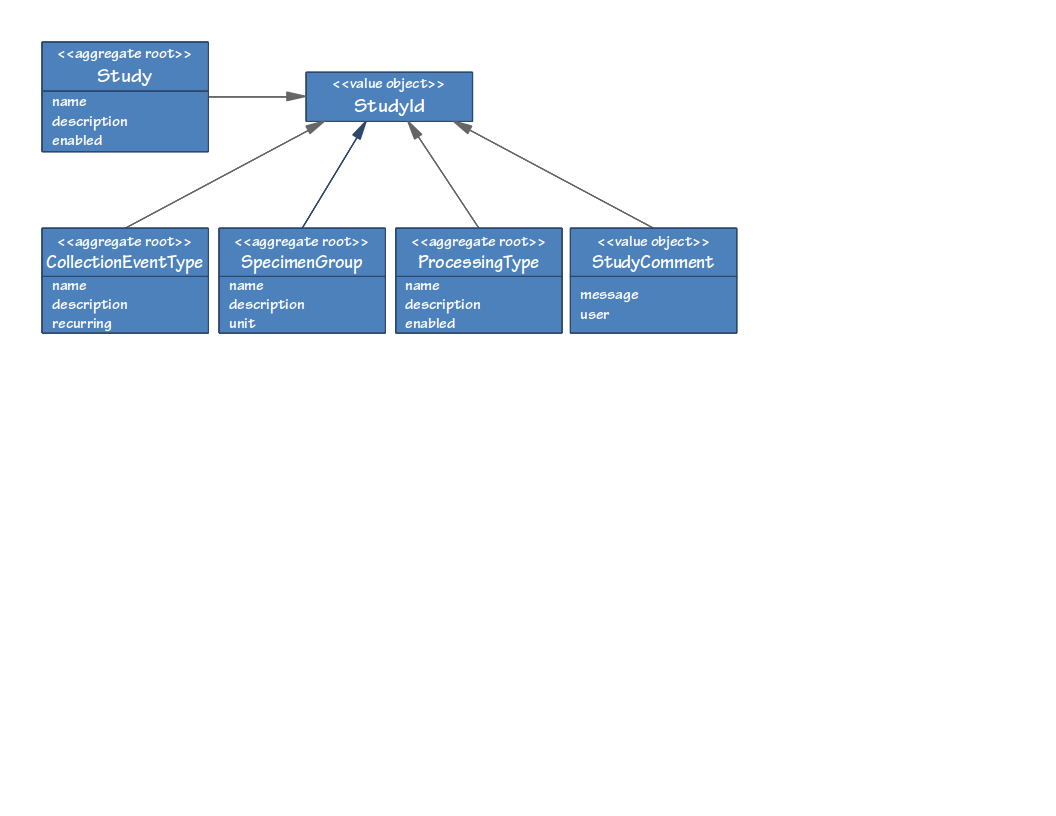
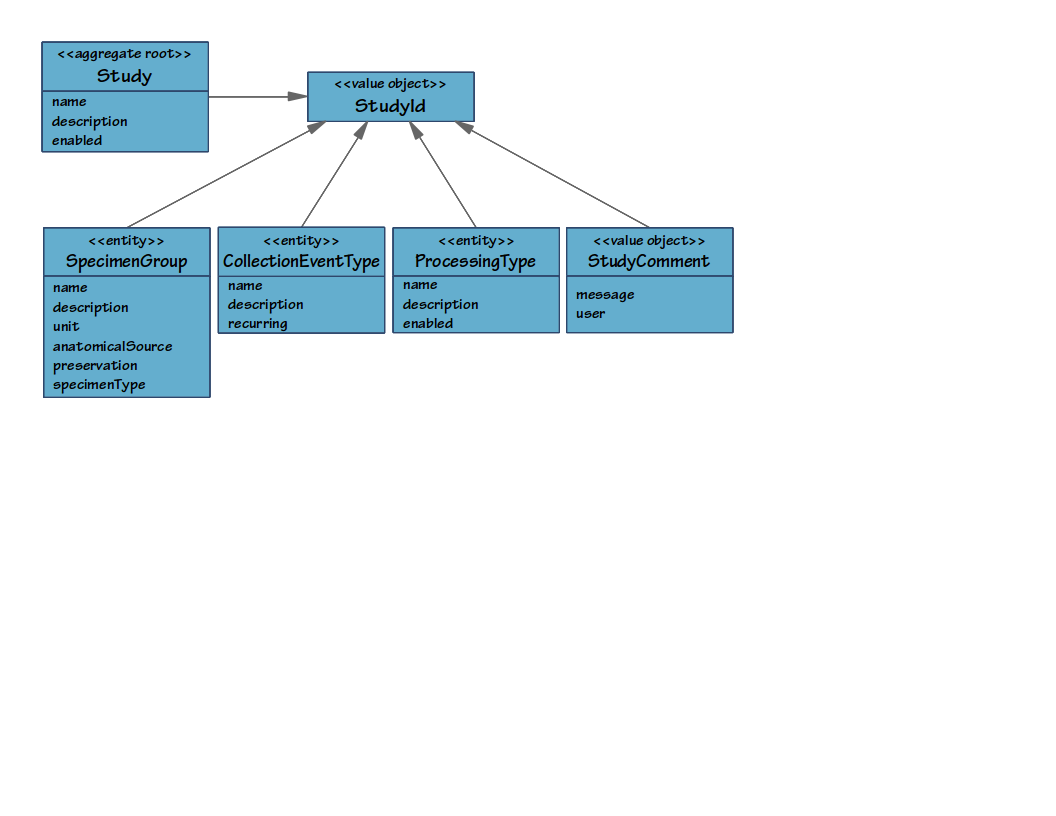
more content on study management chapter

Changed region(s): [[0.0312, 0.2451, 0.7188, 0.4902], [0.0312, 0.0306, 0.2188, 0.1838], [0.2812, 0.0919, 0.4688, 0.1838]]

diff --git a/study-management.tex b/study-management.tex
@@ -2,18 +2,16 @@
 
 \section{Study Aggregate}
 
- The Study aggregate defines the valid types of specimens that can be
- collected, how they are to be collected from participants, and how collected
- specimens are processed.
+ The Study aggregate is used to configure a study. It defines the valid types
+ of specimens that can be collected, when they are to be collected from
+ participants, and how collected specimens are processed.
 
 \begin{figure}[h]
-  \includegraphics[trim={9mm 124mm 80mm 8mm}, clip,
+  \includegraphics[trim={9mm 104mm 80mm 9mm}, clip,
     width=1\textwidth]{images/study-aggregate}
   \caption{Study aggregate}
   \label{fig:study-aggregate}
 \end{figure}
-
-\subsection{Entities}
 
 \begin{description}[listparindent=\parindent]
 
@@ -26,6 +24,17 @@
     specimens can be added.
 
     A study may have one or more comments assigned to it during it's lifetime.
+
+  \item[\entitytarget{SpecimenGroup}] \hfill \\ Ownership, summary, storage,
+    and classification information that applies to an entire group or
+    collection of \entitylink{Specimen}s.
+
+    The anatomical source, preservation medium and specimen type are defined
+    using other value objects discussed in Section \ref{sec:specimen-group}.
+
+    This entity is used to record the specimen types used by the study. It can
+    specify the specimens collected from participants, and the asscociations to
+    the specimens that are processed from them.
 
   \item[\entitytarget{CollectionEventType}] \hfill \\ A classification name,
     unique to the \entitylink{Study}, for a visit by the study's
@@ -47,27 +56,21 @@
 
 \end{description}
 
-\subsection{Value Objects}
+\subsection{SpecimenGroup}
+\label{sec:specimen-group}
+
+The SpecimenGroup entity is composed of other value objects as shown in Figure
+\ref{fig:specimen-group}.
+
+\begin{figure}[h]
+  \centering
+  \includegraphics[trim={9mm 110mm 80mm 9mm}, clip,
+    width=0.9\textwidth]{images/specimen-group}
+  \caption{SpecimenGroup entity}
+  \label{fig:specimen-group}
+\end{figure}
 
 \begin{description}
-
-  \item[\valobjtarget{SpecimenGroupCollectionEventType}] \hfill \\ Defines
-    which types of specimens (i.e. which \valobjlink{SpecimenGroup}s) need to
-    be collected as part of a \entitylink{CollectionEventType}.
-
-  \item[\valobjtarget{SpecimenLinkType}] \hfill \\ Represents a regularly
-    performed processing procedure involving two \entitylink{Specimen}s: an
-    input, which must be in a specific \valobjlink{SpecimenGroup}, and an
-    output, which must be in a specific \valobjlink{SpecimenGroup}.
-
-  \item[\valobjtarget{SpecimenGroup}] \hfill \\ Ownership, summary, storage,
-    and classification information that applies to an entire group or
-    collection of \entitylink{Specimen}s.
-
-  \item[\valobjtarget{SpecimenType}] \hfill \\ A standardised set of
-    classifications that describe \emph{what} a \entitylink{Specimen}
-    is. Potential examples include: urine, whole blood, plasma, nail, protein,
-    etc.
 
   \item[\valobjtarget{Preservation}] \hfill \\ Describes how a
     \entitylink{Specimen} should be preserved/stored by describing temperature
@@ -78,12 +81,42 @@
     methods for preserving and storing \entitylink{Specimen}s.  Potential
     examples include: frozen specimen, RNA later, fresh specimen, slide, etc.
 
-  \item[\valobjtarget{}] \hfill \\
-
-  \item[\valobjtarget{}] \hfill \\
-
-  \item[\valobjtarget{}] \hfill \\
+  \item[\valobjtarget{SpecimenType}] \hfill \\ A standardised set of
+    classifications that describe \emph{what} a \entitylink{Specimen}
+    is. Potential examples include: urine, whole blood, plasma, nail, protein,
+    etc.
 
 \end{description}
 
-\section{Aggregates}
+\subsection{CollectionEventType}
+\label{sec:collection-event-type}
+
+The \texttt{\textbf{\valobjtarget{SpecimenGroupCollectionEventType}}} value
+object is used to define which types of specimens (i.e. which
+\valobjlink{SpecimenGroup}s) need to be collected as part of a
+\entitylink{CollectionEventType}. See Figure \ref{fig:collection-event-type}.
+
+\begin{figure}[h]
+  \centering
+  \includegraphics[trim={9mm 118mm 158mm 9mm}, clip,
+    width=0.6\textwidth]{images/collection-event-type}
+  \caption{Associating collection event types and specimen groups}
+  \label{fig:collection-event-type}
+\end{figure}
+
+\subsection{ProcessingType}
+\label{sec:Processing-type}
+
+The \texttt{\textbf{\valobjtarget{SpecimenLinkType}}} represents a regularly
+performed processing procedure involving two \entitylink{Specimen}s: an input,
+which must be in a specific \valobjlink{SpecimenGroup}, and an output, which
+must be in a specific \valobjlink{SpecimenGroup}.
+
+\begin{figure}[h]
+  \centering
+  \includegraphics[trim={9mm 120mm 172mm 9mm}, clip,
+    width=0.6\textwidth]{images/processing-type}
+  \caption{Association processing types with specimen groups}
+  \label{fig:processing-type}
+\end{figure}
+

diff --git a/architecture.tex b/architecture.tex
@@ -13,7 +13,8 @@ services port. The figure also shows that the event store and query databases
 are accessed via dedicated ports.
 
 \begin{figure}[h]
-  \includegraphics[trim={15mm 18mm 15mm 12mm}, clip, width=1\textwidth]{images/hex-architecture}
+  \includegraphics[trim={15mm 18mm 15mm 12mm}, clip, width=1\textwidth]
+		  {images/hex-architecture}
   \caption{Hexagonal architecture}
   \label{fig:hex-architecture}
 \end{figure}
@@ -30,7 +31,8 @@ Framework\footnote{The figure and the material that follows is borrowed from
 
 \begin{figure}[h]
   \begin{center}
-    \includegraphics[trim={10mm 5mm 15mm 10mm}, clip, width=1\textwidth]{images/cqrs-architecture}
+    \includegraphics[trim={10mm 5mm 15mm 10mm}, clip, width=1\textwidth]
+		    {images/cqrs-architecture}
     \caption{Biobank architecture}
     \label{fig:cqrs-architecture}
   \end{center}
